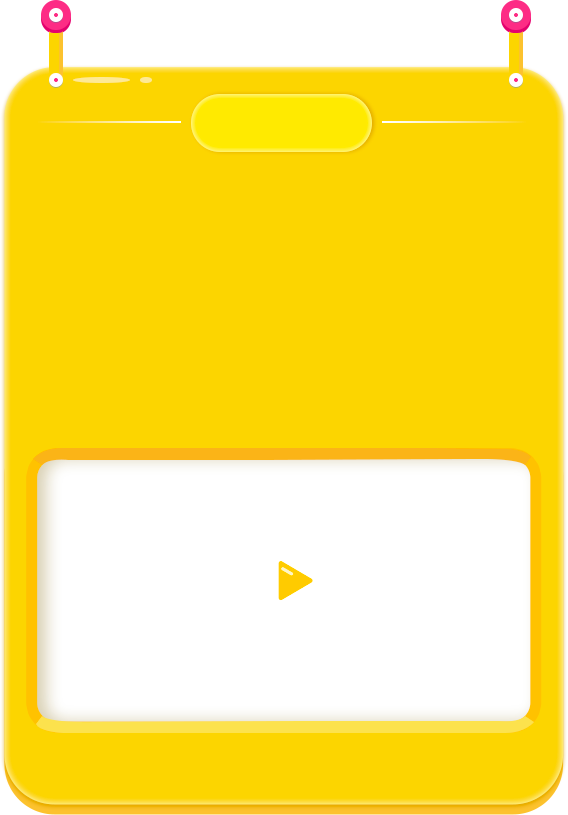
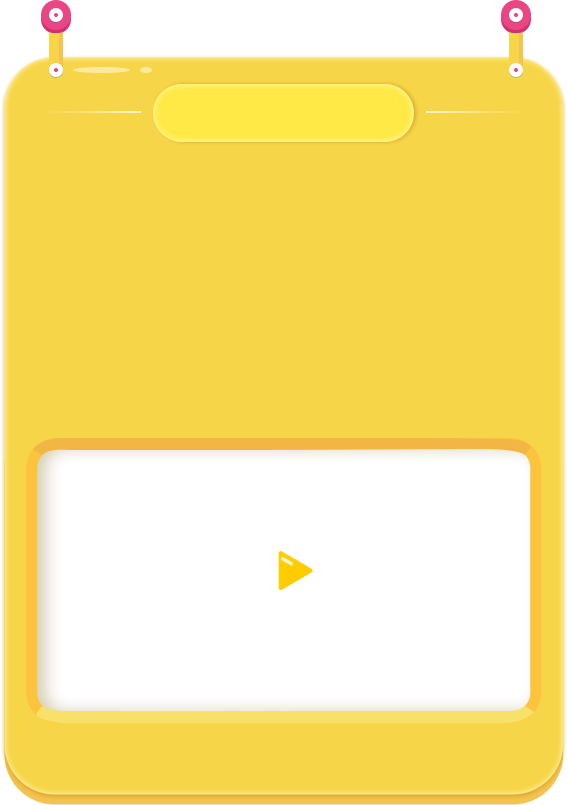
mod uploadVideo_1

diff --git a/html/uploadVideo_1.html b/html/uploadVideo_1.html
@@ -91,29 +91,29 @@
                <div class="video_play"></div>
             </div>
             <div class="swiper-slide" data-id="2">
-               <p class="title">京剧</p>
-               <img class="illustration" src="../static/images/uploadVideo/illustration.png"/>
-               <video class="video_pic" src="http://video.tp-link.com.cn/mercury/3_p2.mp4" poster="../static/images/uploadVideo/video_pic.png" playsinline muted  x5-playsinline="" playsinline="" webkit-playsinline=""></video>   
+               <p class="title">川剧</p>
+               <img class="illustration" src="../static/images/uploadVideo/illustration2.png"/>
+               <video class="video_pic" src="xxx.mp4" poster="../static/images/uploadVideo/video_pic.png" playsinline muted  x5-playsinline="" playsinline="" webkit-playsinline=""></video>   
                <p class="intro">看《天天向上》小嘉宾王源亿如何讲京剧</p>
                <div class="video_play"></div>
             </div>
             <div class="swiper-slide" data-id="3">
-               <p class="title">京剧</p>
-               <img class="illustration" src="../static/images/uploadVideo/illustration.png"/>
+               <p class="title">二十四节气</p>
+               <img class="illustration" src="../static/images/uploadVideo/illustration3.png"/>
                <video class="video_pic" src="xxx.mp4" poster="../static/images/uploadVideo/video_pic.png" playsinline muted  x5-playsinline="" playsinline="" webkit-playsinline=""></video>
                <p class="intro">看《天天向上》小嘉宾王源亿如何讲京剧</p>
                <div class="video_play"></div>
             </div>
             <div class="swiper-slide" data-id="4">
-               <p class="title">京剧</p>
-               <img class="illustration" src="../static/images/uploadVideo/illustration.png"/>
+               <p class="title">书法</p>
+               <img class="illustration" src="../static/images/uploadVideo/illustration4.png"/>
                <video class="video_pic" src="xxx.mp4" poster="../static/images/uploadVideo/video_pic.png" playsinline muted  x5-playsinline="" playsinline="" webkit-playsinline=""></video>
                <p class="intro">看《天天向上》小嘉宾王源亿如何讲京剧</p>
                <div class="video_play"></div>
             </div>
             <div class="swiper-slide" data-id="5">
-               <p class="title">京剧</p>
-               <img class="illustration" src="../static/images/uploadVideo/illustration.png"/>
+               <p class="title">珠算</p>
+               <img class="illustration" src="../static/images/uploadVideo/illustration5.png"/>
                <video class="video_pic" src="xxx.mp4" poster="../static/images/uploadVideo/video_pic.png" playsinline muted  x5-playsinline="" playsinline="" webkit-playsinline=""></video>
                <p class="intro">看《天天向上》小嘉宾王源亿如何讲京剧</p>
                <div class="video_play"></div>

diff --git a/src/scss/uploadVideo.scss b/src/scss/uploadVideo.scss
@@ -109,7 +109,7 @@ body{
 }
 .swiper-container {
     width: 100%;
-    height: 407.5px;
+    height: 402.5px;
 }
 .swiper-slide {
     text-align: center;
@@ -123,7 +123,7 @@ body{
 
     .title{
         @include font-dpr(38px);
-        margin: 53px auto 0;
+        margin: 48px auto 0;
         font-weight: bold;
         font-family:'PingFangSC-Semibold','PingFang';
     }
@@ -132,6 +132,7 @@ body{
     }
     .illustration{
         width: 247.5px;
+        height: 131.5px;
         margin: 10px auto 0;
     }
     .video_pic{

diff --git a/README.md b/README.md
@@ -25,3 +25,20 @@ gulp
 #### 12.17
 1. 添加uploadVideo_2.html、ichmap.html页面
 2. learnPark.html 添加播放动效
+
+#### 12.18
+1. 首页index.html添加开始加载动效、开屏明星喊话
+2. uploadVideo_1.html 更新选题图片，scss样式修改
+3. \static\font\enroll文件夹 添加字体文件PingFang Regular.woff 
+
+#### 各个html对应页面：
+##### index.html --->  首页
+##### rule.html ---> 活动规则(弹窗，需要在页面按钮中调用)
+##### attention.html ---> 点击报名-引导关注服务号
+##### uploadVideo_1.html ---> 上传视频-选题
+##### uploadVideo_2.html --->  点击上传视频 
+##### cheer.html ---> 参赛者视角-好友助威
+##### cheerGuide.html ---> 新手引导-好友助威(弹窗，需要在前两个页面调用)
+##### cheer_1.html ---> 好友助威
+##### learnPark.html ---> 学习乐园
+##### ichmap.html ---> 非遗小站地图
